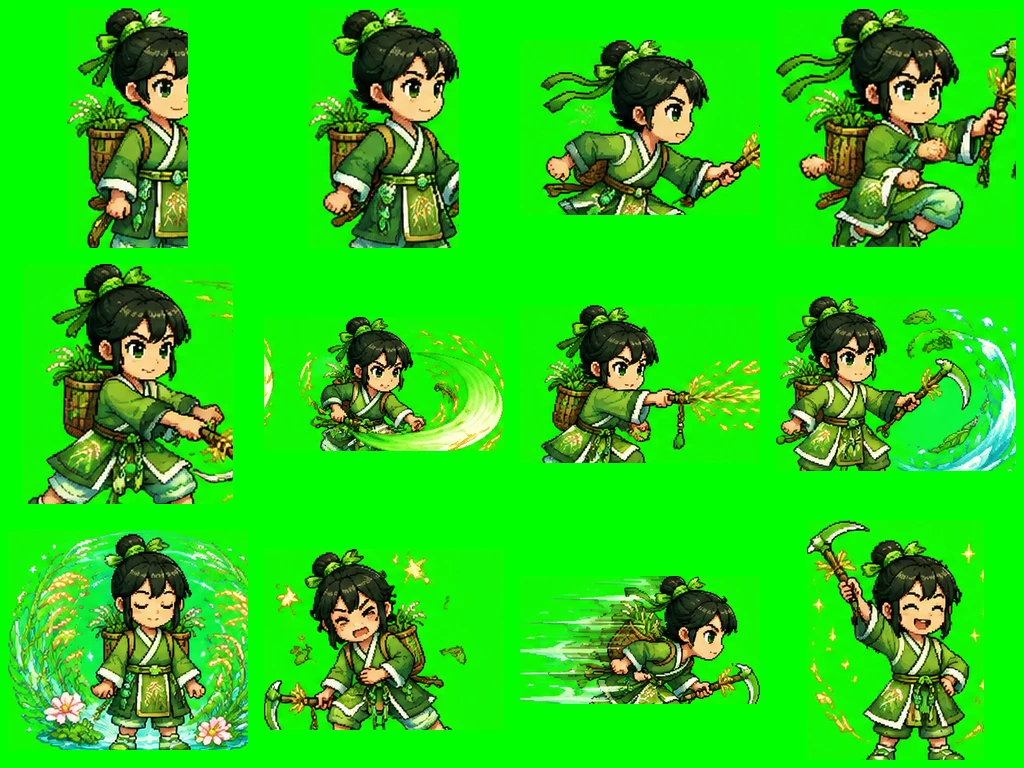
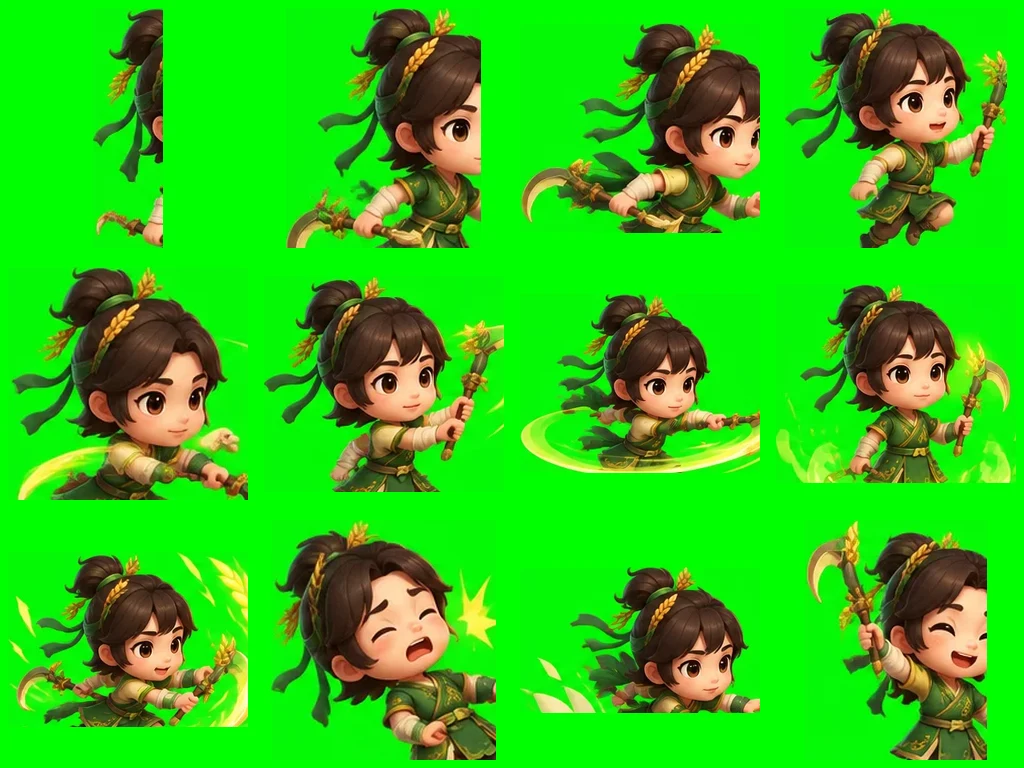
feat: Q版2.5D立体重做英雄与小怪美术

diff --git a/src/game.js b/src/game.js
@@ -215,7 +215,7 @@ async function makeActor(kind,data,x,y){
   const foot=body.createFixture(planck.Box(width*.32,.08,planck.Vec2(0,-height/2-.07),0),{isSensor:true,userData:{type:'foot'},filterCategoryBits:0x8,filterMaskBits:0x1});
   const tex=await loadTexture(data.atlas,data.name[0],data.fallbackAtlas||''); const grid=isPlayer?[data.atlasCols||3,data.atlasRows||3]:(isBoss?[data.atlasCols||5,data.atlasRows||1]:[4,3]); const cell=isPlayer?0:data.cell;
   const mat=chromaMaterial(tex,grid[0],grid[1],cell,data.color||0xffffff); const isHero=isPlayer; const baseScale=isHero?2.3:(isBoss?data.scale*1.12:Math.min((data.scale||1.45)*1.12,2.35)); const geo=new THREE.PlaneGeometry(baseScale,baseScale*(isHero?1.18:1.05)*(isBoss?1.15:1)); const mesh=new THREE.Mesh(geo,mat);mesh.position.z=.7+(isBoss?.2:0);worldGroup.add(mesh);
-  let shadow=null;if(isBoss){shadow=new THREE.Mesh(new THREE.CircleGeometry(1,32),new THREE.MeshBasicMaterial({color:'#050207',transparent:true,opacity:.34,depthWrite:false}));shadow.scale.set(1.45,.32,1);shadow.position.z=.42;worldGroup.add(shadow)}
+  const shadow=new THREE.Mesh(new THREE.CircleGeometry(1,32),new THREE.MeshBasicMaterial({color:'#050207',transparent:true,opacity:.3,depthWrite:false}));shadow.scale.set(isBoss?1.45:isPlayer?.95:data.heavy?.95:.8,.3,1);shadow.position.z=.42;worldGroup.add(shadow);
   const e={kind,data,body,foot,mesh,shadow,mat,grid,hp:data.hp+(isPlayer?upgrades.hp:0),maxHp:data.hp+(isPlayer?upgrades.hp:0),energy:isPlayer?20:0,shield:0,frozen:0,alive:true,dying:false,destroyed:false,ground:0,facing:isPlayer?1:-1,state:'idle',stateTime:0,deathTime:0,deathDuration:isBoss?1.05:.34,attackCd:0,skillCd:0,dashCd:0,moveLock:0,invuln:0,combo:0,comboTimer:0,attackStep:0,aiTimer:Math.random(),spawnX:x,activeAttack:false,lastFrame:-1,motionPhase:0,motionBlend:0,lastStep:-1,bossPhase:1,bossAction:isBoss?-1:0,bossTrailTimer:0,bossHit:false,phaseImpactDone:false,shadowGroundY:y-1.02,actionPhase:'idle',actionDuration:0,actionSerial:0,actionTrailTimer:0,actionImpactDone:false};
   e.spine=new SpineActorBridge(e);body.setUserData(e);entities.push(e);return e;
 }
@@ -648,8 +648,8 @@ function animateEntities(t,dt){entities.forEach(e=>{
       else if(e.state==='phase'){const surge=1+Math.sin(e.stateTime*24)*.07;scaleX*=surge;scaleY*=surge;bob+=Math.abs(pulse)*.16;e.mat.uniforms.rimStrength.value=1.8;e.mat.uniforms.emission.value=.32}
       else if(e.state==='death'){const k=THREE.MathUtils.clamp(e.deathTime/e.deathDuration,0,1),fall=k*k*(3-2*k);lean+=-e.facing*fall*1.18;bob-=fall*.62;forward-=e.facing*fall*.25;scaleY*=1-.14*fall;scaleX*=1+.1*fall;e.mat.uniforms.rimStrength.value=.35;e.mat.uniforms.emission.value=.04;e.mat.uniforms.opacity.value=1-THREE.MathUtils.smoothstep(k,.78,1)*.9}
       else{bob+=pulse*.025;e.mat.uniforms.rimStrength.value=.62+e.bossPhase*.12}
-      if(e.shadow){if(grounded)e.shadowGroundY=p.y-1.02;const air=THREE.MathUtils.clamp((p.y-1.02-e.shadowGroundY)*.2,0,.5);e.shadow.position.set(p.x,e.shadowGroundY,.43);e.shadow.scale.set(1.45-air,.32-air*.12,1);e.shadow.material.opacity=.34-air*.32}
     }
+    if(e.shadow){if(grounded)e.shadowGroundY=p.y-1.02;const air=THREE.MathUtils.clamp((p.y-1.02-e.shadowGroundY)*.2,0,.5),baseScale=e.kind==='boss'?1.45:e.kind==='player'?.95:e.data?.heavy?.95:.8;e.shadow.position.set(p.x,e.shadowGroundY,.43);e.shadow.scale.set(Math.max(.25,baseScale-air*.25),.32-air*.12,1);e.shadow.material.opacity=Math.max(.08,.3-air*.3)}
 
     e.mesh.position.x=p.x+forward;e.mesh.position.y=p.y+(e.kind==='boss'?.35:.2)+bob;e.mesh.rotation.z=lean;
     e.mat.uniforms.flash.value=Math.max(0,e.mat.uniforms.flash.value-dt*8);
@@ -701,7 +701,7 @@ if(DEV_RUNTIME){
     setBossHpRatio:(ratio)=>{if(activeBoss?.alive)activeBoss.hp=activeBoss.maxHp*THREE.MathUtils.clamp(Number(ratio)||0,.01,1);return activeBoss?{hp:activeBoss.hp,phase:activeBoss.bossPhase,state:activeBoss.state}:null},
     setEnergy:(value=100)=>{if(player)player.energy=THREE.MathUtils.clamp(Number(value)||0,0,100);updateHUD();return player?.energy??0},
     start:async(index,hero='heling')=>{selectedHero=HEROES[hero]?hero:'heling';await startLevel(THREE.MathUtils.clamp(index,0,LEVELS.length-1));await enterCombat();return globalThis.__JIUZHOU_DEBUG__.snapshot()},
-    introspect:()=>entities.map(e=>({kind:e.kind,name:e.data?.name,hp:Math.round(e.hp),maxHp:e.maxHp,pos:e.body?.getPosition(),visual:[e.mesh.geometry.parameters.width,e.mesh.geometry.parameters.height],scale:{x:e.mesh.scale.x,y:e.mesh.scale.y},cell:[e.mat?.uniforms?.cell?.value?.x,e.mat?.uniforms?.cell?.value?.y],frame:e.mat?.uniforms?.cell?.value?.x+(e.mat?.uniforms?.cell?.value?.y*(e.grid?.[0]||3)),state:e.state,frozen:e.frozen||0,opacity:e.mat?.uniforms?.opacity?.value,scaleXZ:e.data?.scale}))
+    introspect:()=>entities.map(e=>({kind:e.kind,name:e.data?.name,hp:Math.round(e.hp),maxHp:e.maxHp,pos:e.body?.getPosition(),visual:[e.mesh.geometry.parameters.width,e.mesh.geometry.parameters.height],shadow:!!e.shadow,scale:{x:e.mesh.scale.x,y:e.mesh.scale.y},cell:[e.mat?.uniforms?.cell?.value?.x,e.mat?.uniforms?.cell?.value?.y],frame:e.mat?.uniforms?.cell?.value?.x+(e.mat?.uniforms?.cell?.value?.y*(e.grid?.[0]||3)),state:e.state,frozen:e.frozen||0,opacity:e.mat?.uniforms?.opacity?.value,scaleXZ:e.data?.scale}))
   };
 }
 

diff --git a/src/actors.js b/src/actors.js
@@ -61,7 +61,7 @@ const enemySpecs = [
 ];
 
 export const MONSTERS = enemySpecs.map(([name, type, ranged, heavy, hp, attack, speed, color], id) => ({
-  id, name, type, group: 1, cell: id % 10, atlas: 'assets/monsters/group-1/atlas.webp',
+  id, name, type, group: 1, cell: id % 10, atlas: 'assets/monsters/stereo/atlas.webp',
   fallbackAtlas: 'assets/monsters/group-2/atlas.webp', ranged, heavy, hp, attack, speed,
   scale: heavy ? 2.15 : 1.75, color
 }));

diff --git a/tools/compose-monster-atlas.py b/tools/compose-monster-atlas.py
@@ -1,0 +1,102 @@
+#!/usr/bin/env python3
+"""把 10 张 Q版2.5D 小怪单图合成到一张 4x3 图集。
+
+每个小怪按内容边界裁切、等比缩放到统一单元格并居中，背景使用纯绿
+色键，运行时由 chroma shader 抠除。输出到
+public/assets/monsters/stereo/atlas.webp。
+
+Usage:
+    python3 tools/compose-monster-atlas.py
+"""
+
+import json
+import pathlib
+import subprocess
+
+try:
+    from PIL import Image
+except ImportError:
+    raise SystemExit("Pillow is required: pip install Pillow")
+
+
+ROOT = pathlib.Path(__file__).resolve().parent.parent
+SOURCES = [ROOT / ".gen" / "stereo-monster" / f"{i}.webp" for i in range(10)]
+OUT_DIR = ROOT / "public" / "assets" / "monsters" / "stereo"
+COLS, ROWS = 4, 3
+CELL = 256
+GREEN = (0, 255, 0)
+
+
+def sample_background(im):
+    w, h = im.size
+    patch = 10
+    points = [(2, 2), (w - 2 - patch, 2), (2, h - 2 - patch), (w - 2 - patch, h - 2 - patch)]
+    pixels = []
+    for x, y in points:
+        for yy in range(y, min(y + patch, h)):
+            for xx in range(x, min(x + patch, w)):
+                pixels.append(im.getpixel((xx, yy)))
+    return tuple(round(sum(c[i] for c in pixels) / len(pixels)) for i in range(3))
+
+
+def content_box(im, bg):
+    w, h = im.size
+    min_x, min_y, max_x, max_y = None, None, None, None
+    for y in range(0, h, 2):
+        for x in range(0, w, 2):
+            px = im.getpixel((x, y))
+            if sum((a - b) ** 2 for a, b in zip(px, bg)) > 900:
+                if min_x is None or x < min_x:
+                    min_x = x
+                if max_x is None or x > max_x:
+                    max_x = x
+                if min_y is None or y < min_y:
+                    min_y = y
+                if max_y is None or y > max_y:
+                    max_y = y
+    if min_x is None:
+        return None
+    return (min_x, min_y, max_x - min_x + 1, max_y - min_y + 1)
+
+
+def main():
+    sheet = Image.new("RGB", (CELL * COLS, CELL * ROWS), GREEN)
+    for index, source in enumerate(SOURCES):
+        if not source.exists():
+            raise SystemExit(f"missing monster source: {source}")
+        im = Image.open(source).convert("RGB")
+        bg = sample_background(im)
+        box = content_box(im, bg)
+        if box is None:
+            raise SystemExit(f"monster {index} is empty")
+        frame = im.crop(box)
+        scale = (CELL - 14) / max(frame.size)
+        frame = frame.resize(
+            (max(1, round(frame.width * scale)), max(1, round(frame.height * scale))),
+            Image.Resampling.LANCZOS,
+        )
+        col, row = index % COLS, index // COLS
+        x = col * CELL + (CELL - frame.width) // 2
+        y = row * CELL + (CELL - frame.height) // 2
+        sheet.paste(frame, (x, y))
+        print(f"monster {index}: crop={box} -> {frame.size} at {col},{row}")
+
+    OUT_DIR.mkdir(parents=True, exist_ok=True)
+    raw_png = OUT_DIR / "atlas.png"
+    final_webp = OUT_DIR / "atlas.webp"
+    sheet.save(raw_png, "PNG")
+    result = subprocess.run(
+        ["cwebp", "-quiet", "-q", "86", str(raw_png), "-o", str(final_webp)],
+        capture_output=True,
+        text=True,
+    )
+    raw_png.unlink(missing_ok=True)
+    if result.returncode != 0:
+        raise SystemExit(f"cwebp failed: {result.stderr}")
+    manifest = {"version": 1, "id": "stereo-monsters", "cols": COLS, "rows": ROWS, "cellOrder": [f"monster-{i}" for i in range(10)]}
+    (OUT_DIR / "manifest.json").write_text(json.dumps(manifest, ensure_ascii=False, indent=2) + "\n", encoding="utf-8")
+    print(f"composed {len(SOURCES)} monsters -> {final_webp}")
+
+
+if __name__ == "__main__":
+    main()

diff --git a/tools/repack-character-atlas.py b/tools/repack-character-atlas.py
@@ -117,7 +117,7 @@ def main():
     final_webp = OUT_DIR / "atlas.webp"
     sheet.save(raw_png, "PNG")
     result = subprocess.run(
-        ["cwebp", "-quiet", "-q", "92", str(raw_png), "-o", str(final_webp)],
+        ["cwebp", "-quiet", "-q", "88", str(raw_png), "-o", str(final_webp)],
         capture_output=True,
         text=True,
     )

diff --git a/ASSET_MANIFEST.md b/ASSET_MANIFEST.md
@@ -8,7 +8,9 @@
 |---|---|---|---|
 | 十关复杂背景 | `public/assets/backgrounds/level-01.webp` … `level-10.webp` | `gpt-image-2`，复杂国风横版场景提示词 | 虎牢关样片已成功；其余按关卡故事重新生成并覆盖旧占位图 |
 | 四季行者动作图集 | `public/assets/characters/{heling,yanshuo,shutong,xuanhong}/atlas.webp` | `gpt-image-2` + `tools/repack-character-atlas.py` | 四套 1536×1024 原始图集按内容边界裁剪重排为 1024×768 严格 4×3；对应春木/夏火/秋金/冬水 |
-| 四季行者立绘 | `public/assets/portraits/{yanshuo,shutong,xuanhong}.webp` | `gpt-image-2` | 1024×1024 国风工笔半身立绘，与禾灵立绘同风格 |
+| 四季行者 2.5D 动作图集 | `public/assets/characters/{heling,yanshuo,shutong,xuanhong}/atlas.webp` | `gpt-image-2` + `tools/repack-character-atlas.py` | Q版2.5D 立体厚涂重做：大头小身、体积光、环境光遮蔽、深色描边、自带地面投影；按内容边界重排为 1024×768 严格 4×3 |
+| 四季行者立绘 | `public/assets/portraits/{heling,yanshuo,shutong,xuanhong}.webp` | `gpt-image-2` | 1024×1024 Q版2.5D 半身立绘，立体厚涂，纯绿键背景 |
+| 小怪 2.5D 立体图集 | `public/assets/monsters/stereo/atlas.webp` | `gpt-image-2` + `tools/compose-monster-atlas.py` | 10 张单只小怪按内容边界合成 4×3 图集，运行时统一抠绿键 |
 | 四武将动作图集 | `public/assets/characters/*/atlas.webp` | MiniMax `image-01` | 3×3 动作布局，关羽/张飞/赵云/黄忠，运行时自适应色键抠图 |
 | 30 种敌军图集 | `public/assets/monsters/group-*` | MiniMax `image-01` | 三组 4×3 图集，数据层映射 30 种敌军 |
 | 10 Boss 动作图集 | `public/assets/bosses/animated/*/atlas.webp` | MiniMax `image-01` + `tools/repack-boss-atlases.py` | 每名 Boss 独立 4×3 多帧图集；离线绿幕重排消除跨格武器、重复姿势和生成模型偶发 4 行/5 列排版 |
@@ -26,7 +28,7 @@
 - `gpt-image-2`：可用，已成功返回 1536×1024 复杂背景。
 - MiniMax `image-01`：可用，已生成武将、敌军、Boss 和 UI 图集。
 - MiniMax `music-2.6`：用于生成纯音乐战斗主题。
-- `Qwen/Qwen-image`：2026-08-04 调用返回 `model_not_found` / 502，未虚构产物；保留 `tools/generate-assets.mjs qwen-ui` 作为通道恢复后的可选补充。
+- `Qwen/Qwen-image`：多次调用返回 `model_not_found` / 503，未虚构产物；本轮继续保留为通道恢复后的可选补充，实际素材统一走 `gpt-image-2`。
 - `deepseek-ai/DeepSeek-OCR`：按用户配置的 `http://cf.douzimi.com:58728/v1` 调用过精灵图和游戏截图识别；该通道对复杂游戏画面返回不稳定，正式排版验证以程序化网格/像素检查和浏览器烟测为准。
 
 ## 可复现生成
@@ -46,6 +48,12 @@ npm run assets:heling:repack
 npm run assets:character:repack -- .gen/raw-character-atlas/yanshuo/atlas.webp yanshuo
 npm run assets:character:repack -- .gen/raw-character-atlas/shutong/atlas.webp shutong
 npm run assets:character:repack -- .gen/raw-character-atlas/xuanhong/atlas.webp xuanhong
+npm run assets:stereo:generate
+python3 tools/repack-character-atlas.py .gen/stereo-hero/heling/atlas.webp heling
+python3 tools/repack-character-atlas.py .gen/stereo-hero/yanshuo/atlas.webp yanshuo
+python3 tools/repack-character-atlas.py .gen/stereo-hero/shutong/atlas.webp shutong
+python3 tools/repack-character-atlas.py .gen/stereo-hero/xuanhong/atlas.webp xuanhong
+npm run assets:monsters:compose
 ```
 
 Boss 生成后需执行本地重排与视觉 QA；原始生成图备份在 Git 忽略的 `.gen/raw-boss-atlases/`。生成器只读取环境变量，响应摘要写入被 Git 忽略的 `.gen/`。不要把长期密钥放到前端 JavaScript、README、提交历史或服务器静态目录。

diff --git a/ITERATIONS.md b/ITERATIONS.md
@@ -63,6 +63,16 @@
 - 玩家受击新增红闪与更强震屏，大伤害会弹出红色伤害数字。
 - 浏览器回归：四角色对敌伤害、冻结、击杀飘字与 Boss 战均无控制台错误；`__JIUZHOU_DEBUG__.introspect()` 增加 `visual` 网格尺寸用于体型校验。
 
+## 2026-08-06：Q版2.5D 立体美术重做
+
+- 以本地「24 欧式Q版角色SPINE」与「Q版8方向人物动画序列帧」为风格参考，重新定义角色美术方向：Q版大头小身、3D手办质感、体积光、环境光遮蔽、深色描边、脚下柔和圆形投影。
+- 四名四季行者全部重新生成 4×3 动作图集与半身立绘，原始大图进入 `.gen/stereo-hero/`，正式图集经 `tools/repack-character-atlas.py` 重排并压缩为 1024×768 WebP。
+- 10 种山海异兽重新生成单只 Q版2.5D 立体制图，由 `tools/compose-monster-atlas.py` 按内容边界合成 `monsters/stereo/atlas.webp`，运行时统一抠绿键。
+- 渲染层为所有英雄、小怪和 Boss 增加实体地面阴影，跳跃/下落时阴影随高度缩小变淡，明显增强落地感与立体层次。
+- 图片压缩：英雄图集 WebP 约 115–155KB，小怪立体图集约 119KB，立绘约 108–155KB。
+- 生成通道：本轮再次确认 `Qwen/Qwen-image` 返回 `model_not_found`，素材全部由 `gpt-image-2` 完成；`DeepSeek-OCR` 对参考图识别仍不稳定，仅作为辅助参考，不依赖其结果。
+- 浏览器回归：四英雄与新小怪图集均正常加载，全部实体带阴影，战斗无控制台错误。
+
 ## 本轮：关卡长度专项调整
 
 - 关卡长度：`150 / 180 / 215 / 250 / 290 / 335 / 380 / 430 / 485 / 550`。

diff --git a/docs/IMPLEMENTATION.md b/docs/IMPLEMENTATION.md
@@ -30,7 +30,8 @@
 ## 资源与音频策略
 
 - 复杂关卡背景：使用 `gpt-image-2` 生成，再放入 `public/assets/backgrounds/jiuzhou-*.webp`。
-- 主角图集：`gpt-image-2` 生成四套原始十二格图集后，由 `tools/repack-character-atlas.py` 按内容边界裁剪并重排为 1024×768 严格 4×3，避免生成模型偶发多行/留白导致运行时精灵错位。
+- 主角与小怪图集：以本地 Q版 Spine/8方向素材为风格参考，`gpt-image-2` 生成 Q版2.5D 立体厚涂原始图，英雄由 `tools/repack-character-atlas.py` 重排为 1024×768 严格 4×3，小怪由 `tools/compose-monster-atlas.py` 合成为 `monsters/stereo/atlas.webp`；全部 WebP 压缩并统一绿键抠图。
+- 立体层次：英雄、小怪、Boss 全部带实体地面阴影，跳跃/下落时阴影随高度缩小变淡。
 - 简单 UI/肖像补充：使用 MiniMax `image-01` 与 Qwen Image 生成，密钥只通过 `.env.local` 读取，绝不写入客户端 bundle。
 - 音乐：使用 MiniMax `music-2.6` 生成 `jiuzhou-theme.mp3` 与 `jiuzhou-boss.mp3`。
 - 出招音效：复用本地古风打斗素材包，经 `tools/import-combat-audio.py` 做裁切、限幅和 MP3 转码；`src/audio.js` 按普攻、技能、Boss、受击分层播放，并保留程序化兜底音效。

diff --git a/README.md b/README.md
@@ -36,7 +36,7 @@
 ## 技术实现
 
 - **Vite + JavaScript**：快速开发和静态发布。
-- **Three.js**：正交镜头、背景分层、图集角色、粒子、残影、冲击环、Bloom、色调后期。
+- **Three.js**：正交镜头、背景分层、Q版2.5D 立体图集角色、全角色地面阴影、粒子、残影、冲击环、Bloom、色调后期。
 - **Planck.js**：重力、平台、角色碰撞和简单物理反馈。
 - **数据驱动关卡**：`src/levels.js` 集中管理节气、长度、平台、波次、收集物、陷阱和 Boss 节点。
 - **资源生成**：背景、UI 和音乐均可通过本地生成脚本接入用户提供的图片/音乐 API；四位角色图集由 `gpt-image-2` 生成并经 `tools/repack-character-atlas.py` 重排为严格 4×3；密钥只从 `.env.local` 读取。
